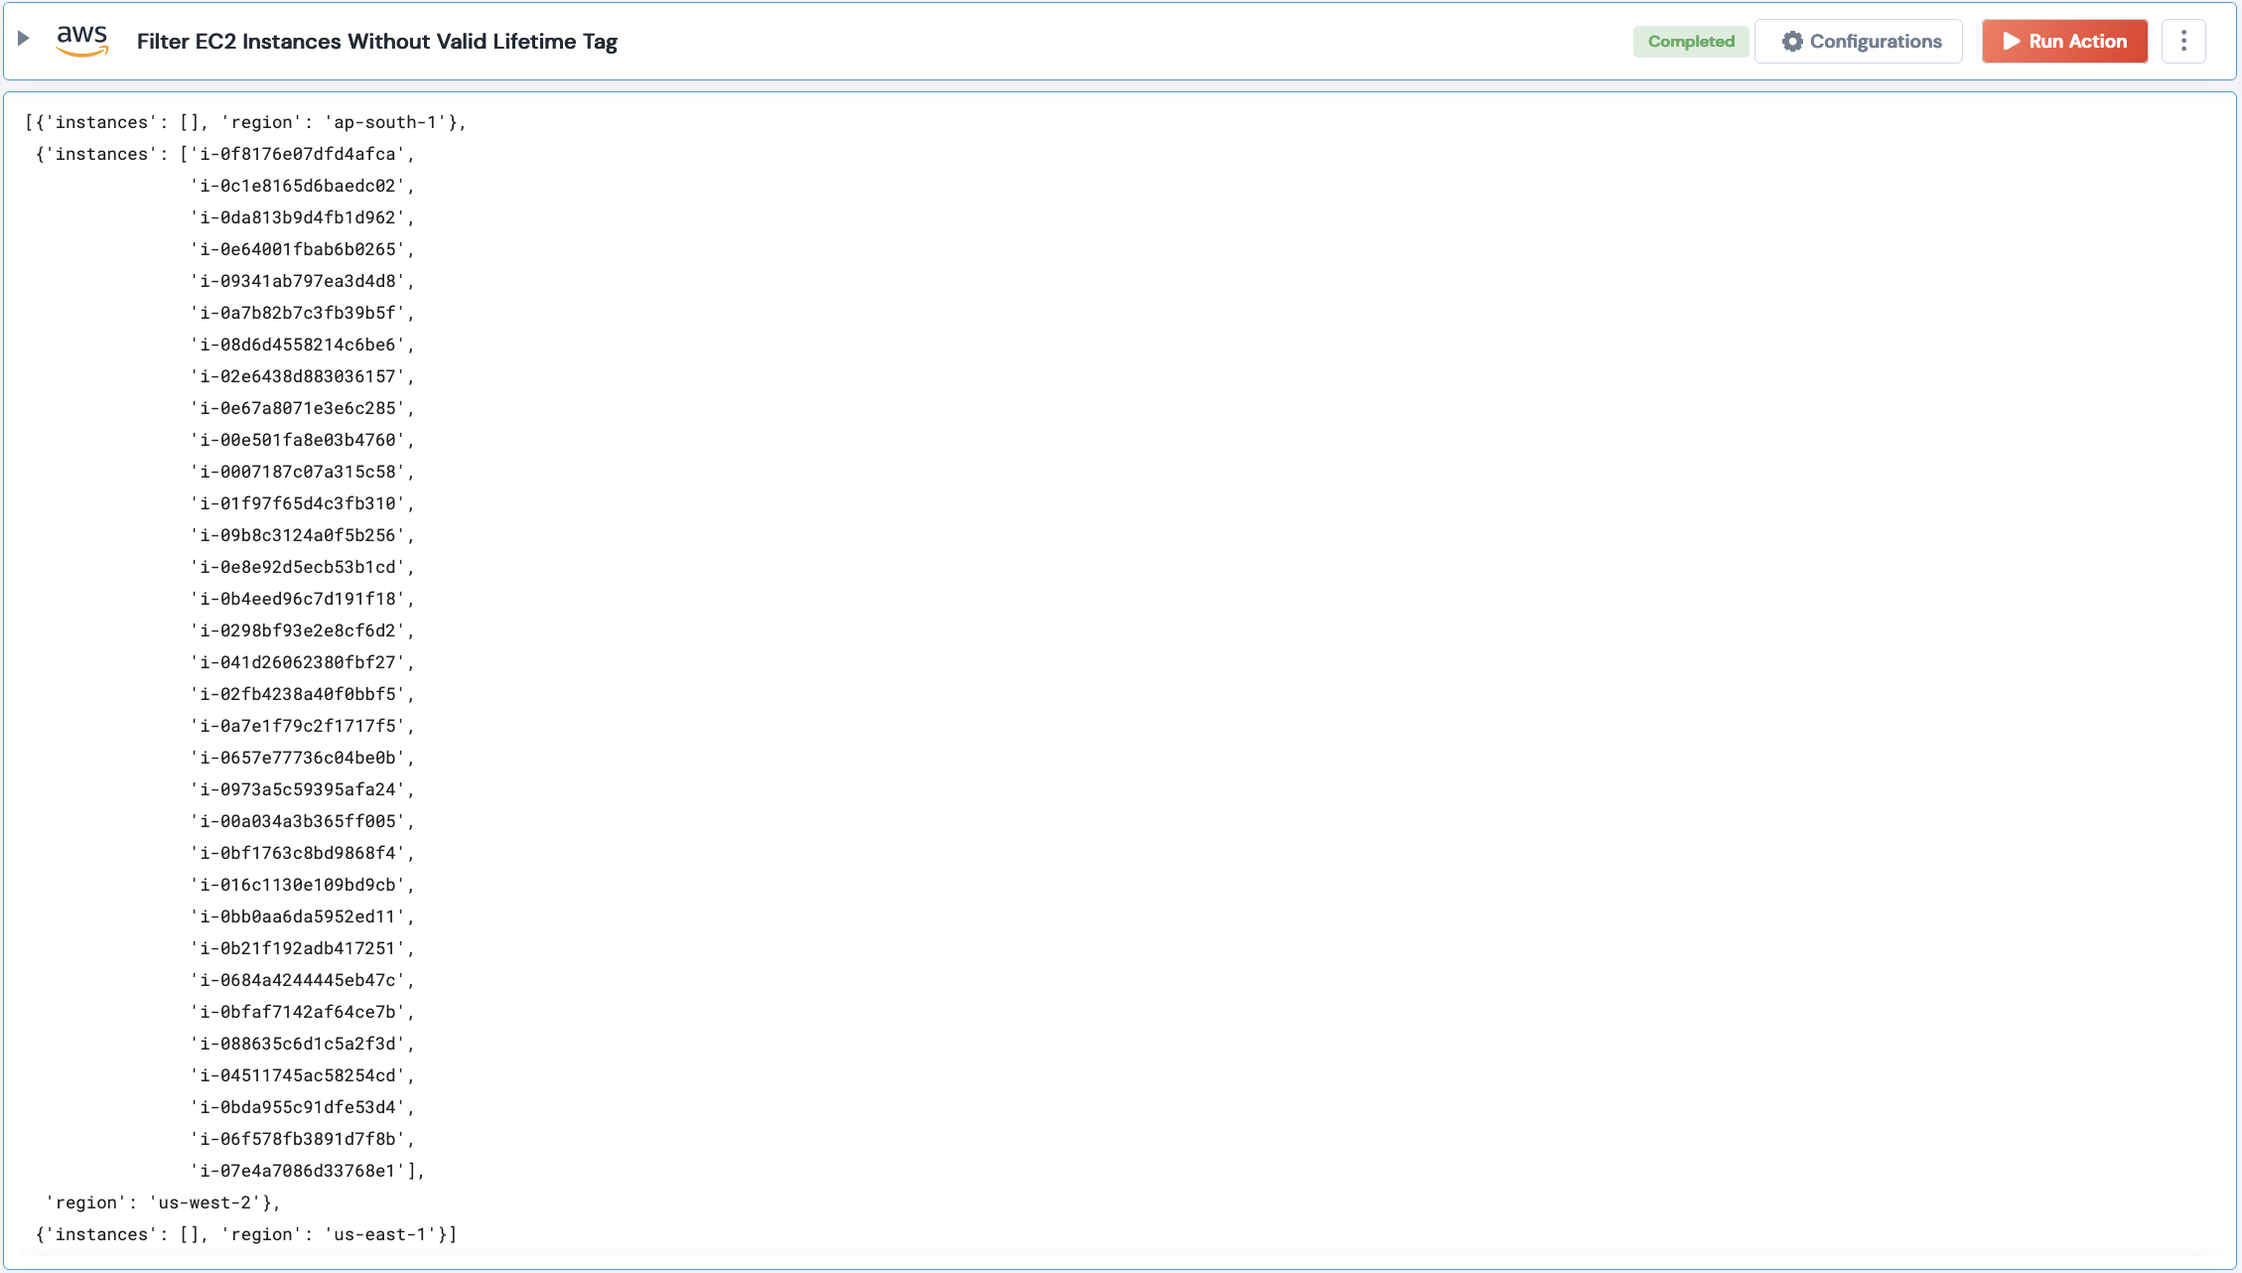
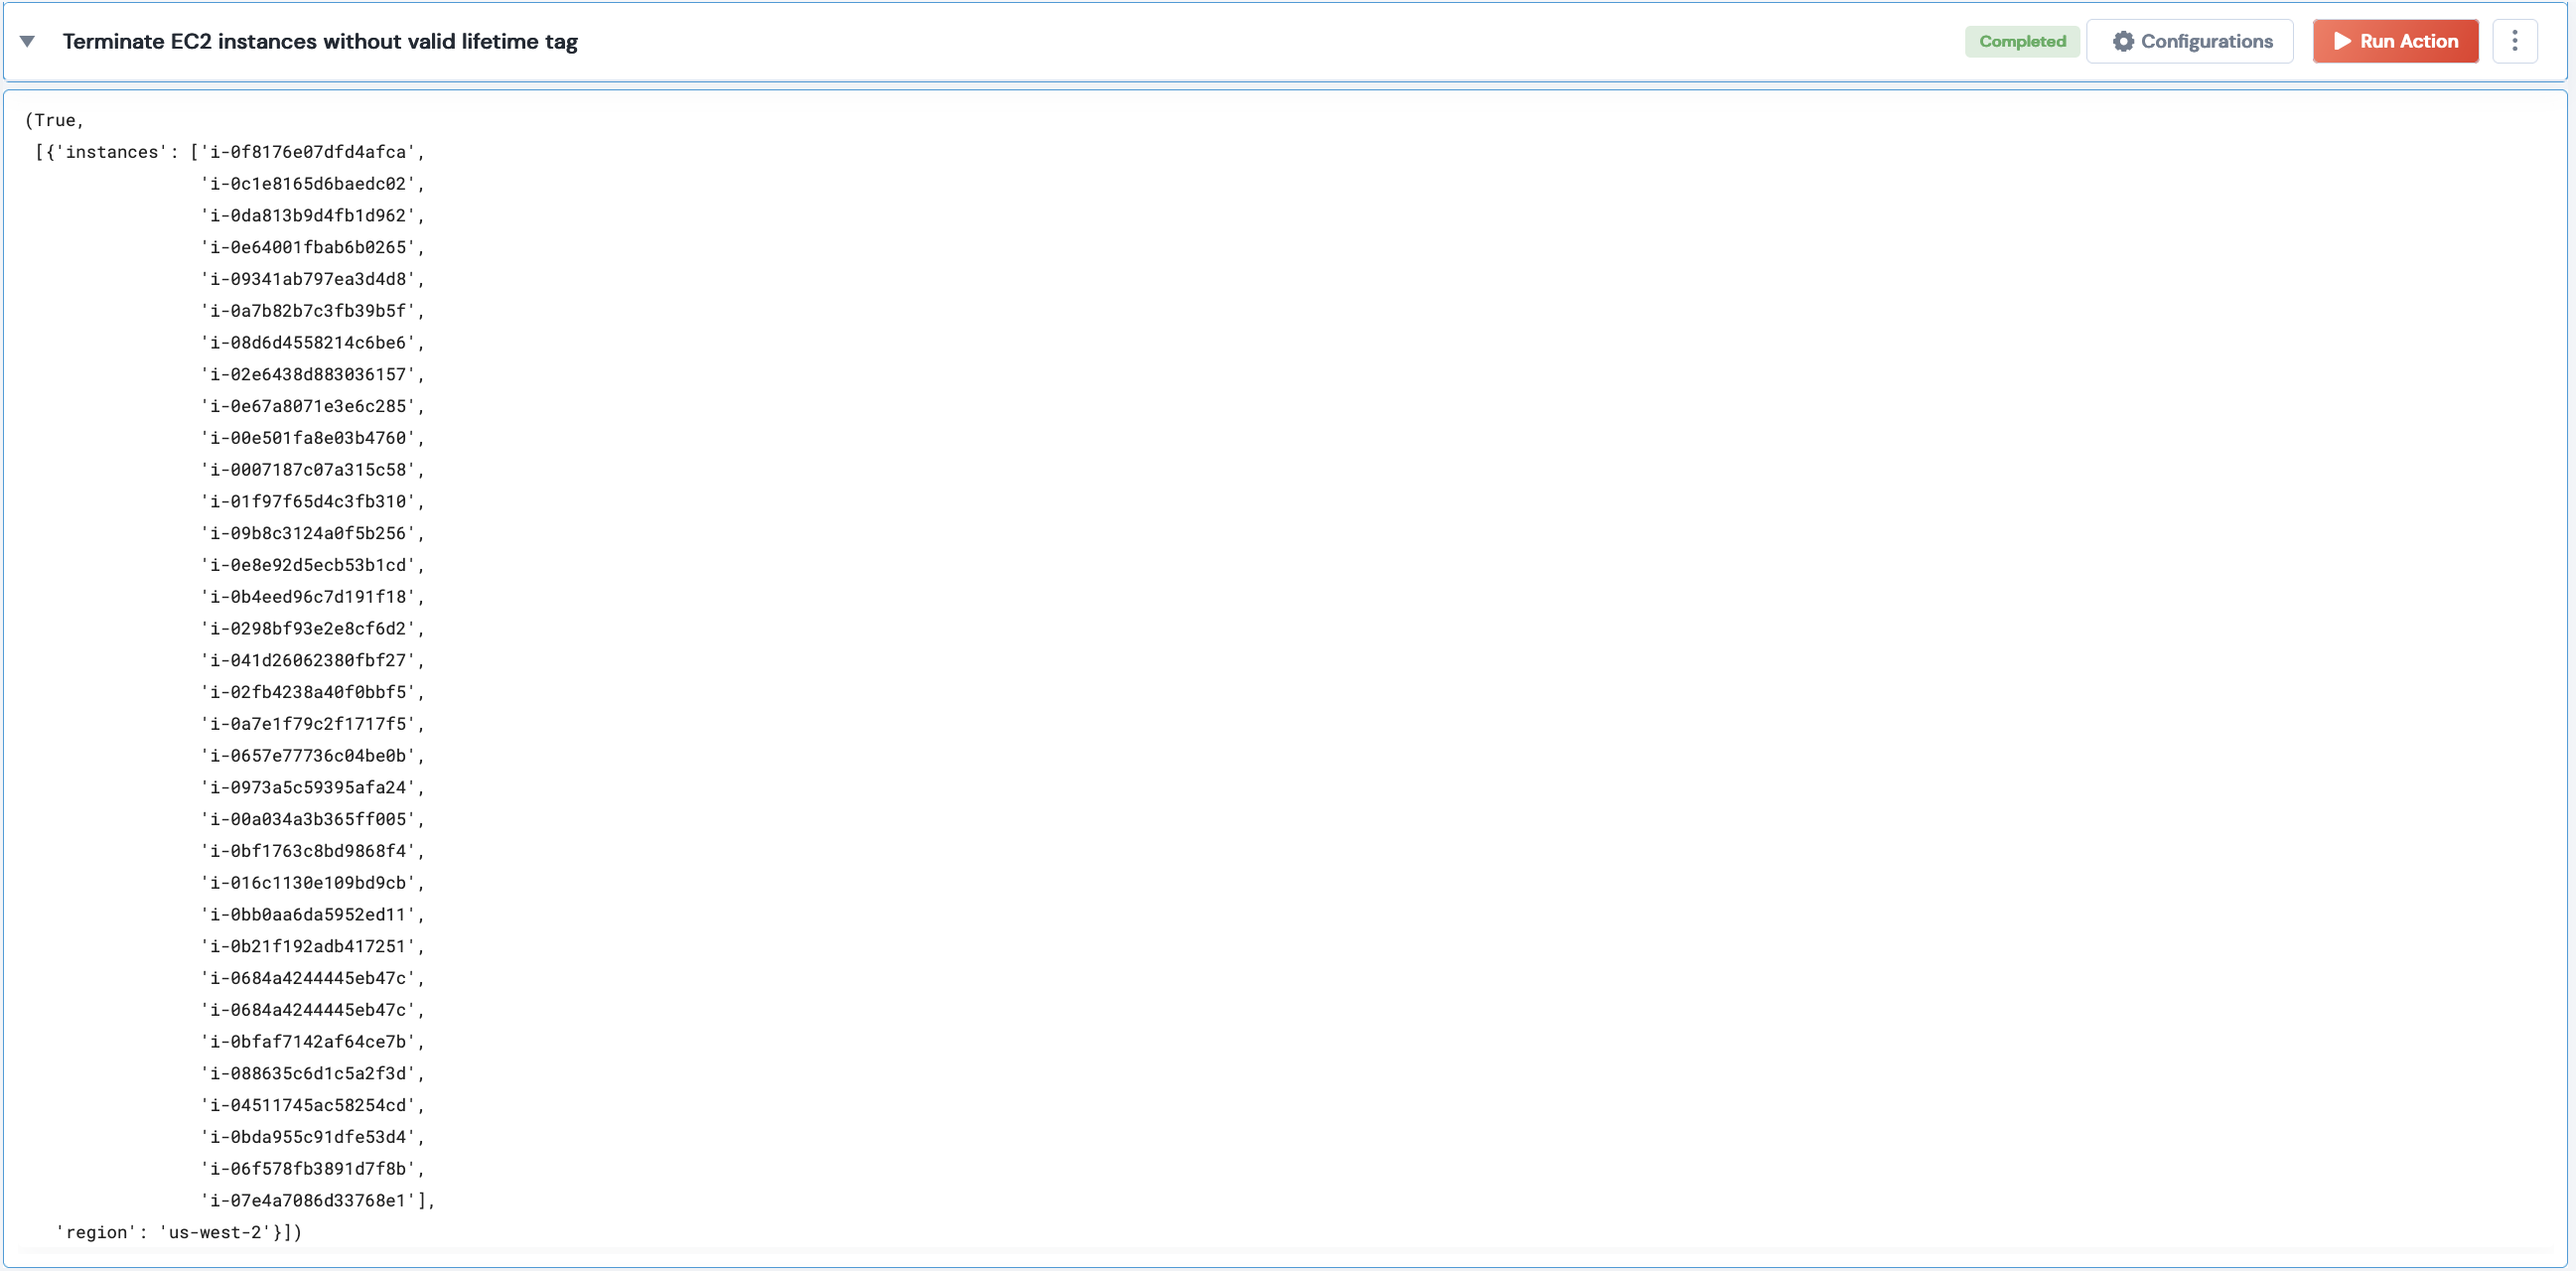
EN-3708 Modify to return tuple

Changed region(s): [[0.0, 0.0, 1.0, 1.0]]

diff --git a/AWS/legos/aws_filter_instances_without_termination_and_lifetime_tag/aws_filter_instances_without_termination_and_lifetime_tag.py b/AWS/legos/aws_filter_instances_without_termination_and_lifetime_tag/aws_filter_instances_without_termination_and_lifetime_tag.py
@@ -3,16 +3,19 @@
 ##  All rights reserved.
 ##
 from pydantic import BaseModel, Field
-from typing import List
+from typing import List, Tuple, Optional
 from unskript.connectors.aws import aws_get_paginator
 from unskript.legos.aws.aws_list_all_regions.aws_list_all_regions import aws_list_all_regions
 import pprint
 from datetime import datetime, date
 
 class InputSchema(BaseModel):
-    region: str = Field(
+    region: Optional[str] = Field(
+        default="",
         title='Region',
-        description='AWS Region')
+        title='Region',
+        description='Name of the AWS Region'
+    )
 
 
 def aws_filter_instances_without_termination_and_lifetime_tag_printer(output):
@@ -47,12 +50,14 @@ def fetch_instances_from_valid_region(res,r) -> List:
                                     if launch_date < right_now:
                                         result.append(instance['InstanceId'])
                 except Exception as e:
-                    result.append(instance['InstanceId'])
-    instances_dict['region']= r
-    instances_dict['instances']= result
+                        if len(instance['InstanceId'])!=0:
+                            result.append(instance['InstanceId'])
+    if len(result)!=0:
+        instances_dict['region']= r
+        instances_dict['instances']= result
     return instances_dict
 
-def aws_filter_instances_without_termination_and_lifetime_tag(handle, region: str=None):
+def aws_filter_instances_without_termination_and_lifetime_tag(handle, region: str=None) -> Tuple:
     """aws_filter_ec2_without_lifetime_tag Returns an List of instances which not have lifetime tag.
 
         :type handle: object
@@ -75,4 +80,9 @@ def aws_filter_instances_without_termination_and_lifetime_tag(handle, region: st
             final_list.append(instances_without_tags)
         except Exception as e:
             pass
-    return final_list
+    execution_flag = False
+    if len(final_list) > 0:
+        execution_flag = True
+    output = (execution_flag, final_list)
+    return output
+

diff --git a/AWS/legos/aws_filter_instances_without_termination_and_lifetime_tag/README.md b/AWS/legos/aws_filter_instances_without_termination_and_lifetime_tag/README.md
@@ -9,7 +9,7 @@ This Lego Filter Instances without Termination and Lifetime Tag and check of the
     aws_filter_instances_without_termination_and_lifetime_tag(handle: object,region: str)
 
         handle: Object of type unSkript AWS Connector.
-        region: AWS region. Eg: "us-west-2"
+        region: Optional, AWS region. Eg: "us-west-2"
 
 ## Lego Input
 This Lego take two inputs handle, region.
